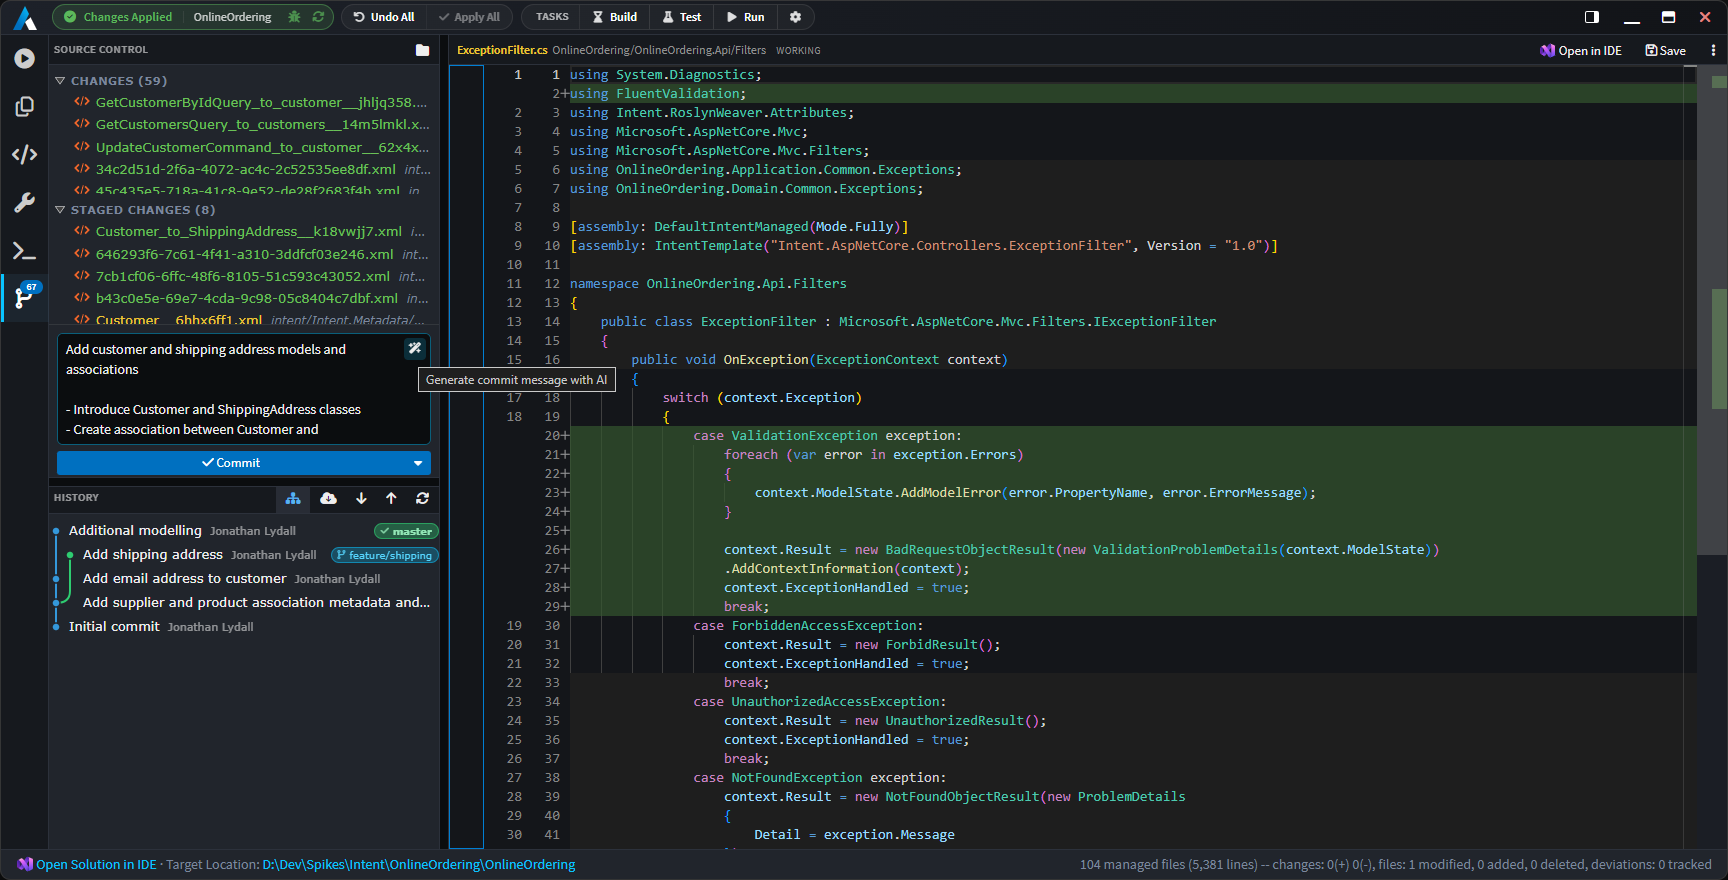
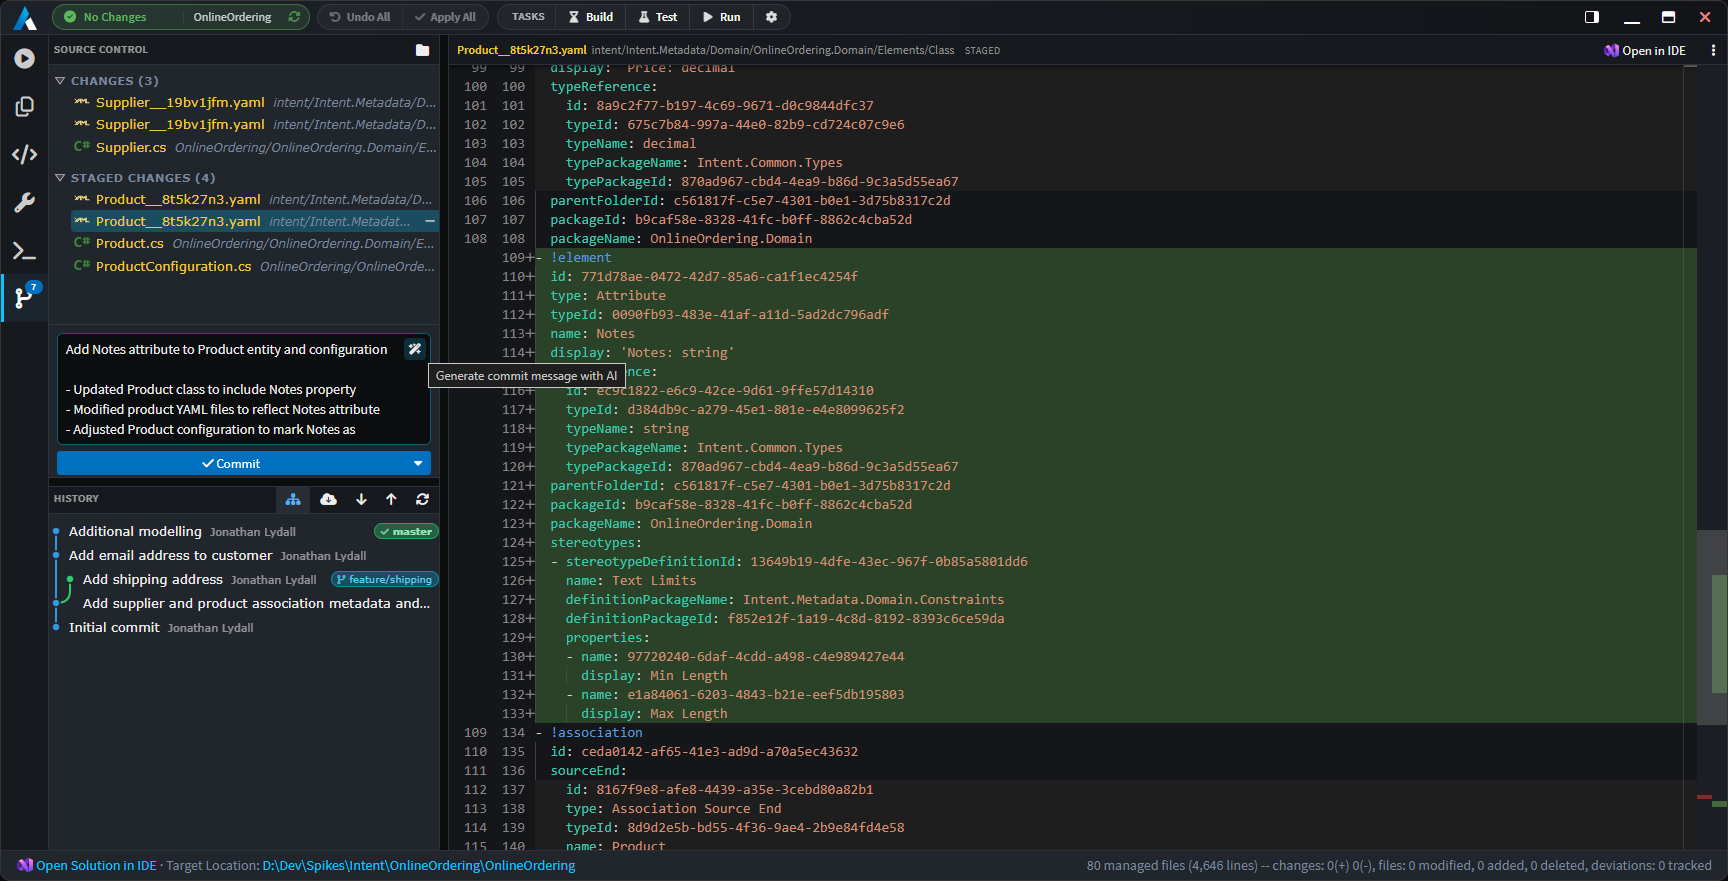
Switch to YAML for SCM screenshots as looks better

diff --git a/src/release-notes/intent-architect-v5.1.md b/src/release-notes/intent-architect-v5.1.md
@@ -72,6 +72,8 @@ Intent Architect now supports **OAuth 2.1 for remote MCP servers**. When an HTTP
 
 Intent Architect now ships with a complete **Source Control** experience, so you can manage your repository without leaving the platform. It lives as a new **Source Control** tab inside the Software Factory, sitting alongside Console, Changes, Codebase Explorer, Customizations and Terminal.
 
+![The Source Control tab in the Software Factory](./images/5.1/00/git-source-control-tab.png)
+
 At a high level, you can now:
 
 - **See your changes at a glance** - separate, independently-scrolling **Working** and **Staged** trees, each file annotated with icons and a colour-coded status (Added, Modified, Deleted, Renamed, Untracked, Conflicted). Toggle between a folder-grouped tree and a flat list, with your preference remembered per solution.